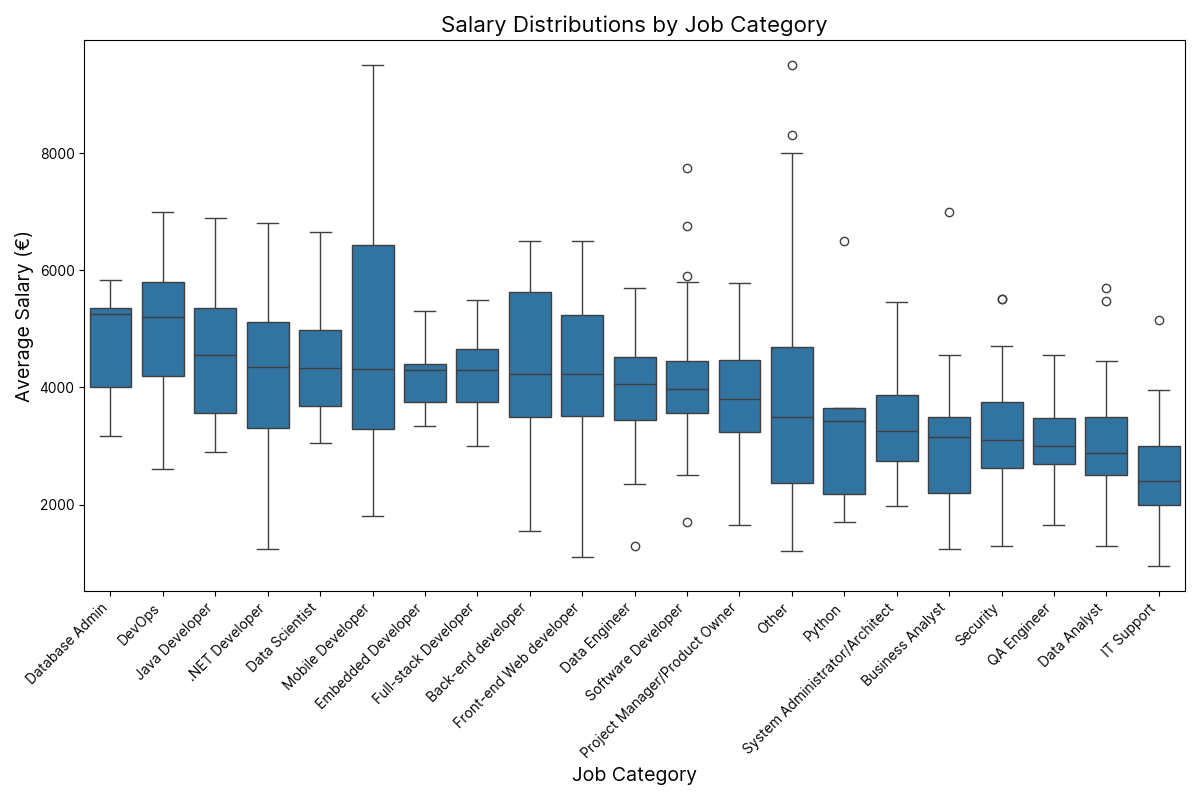
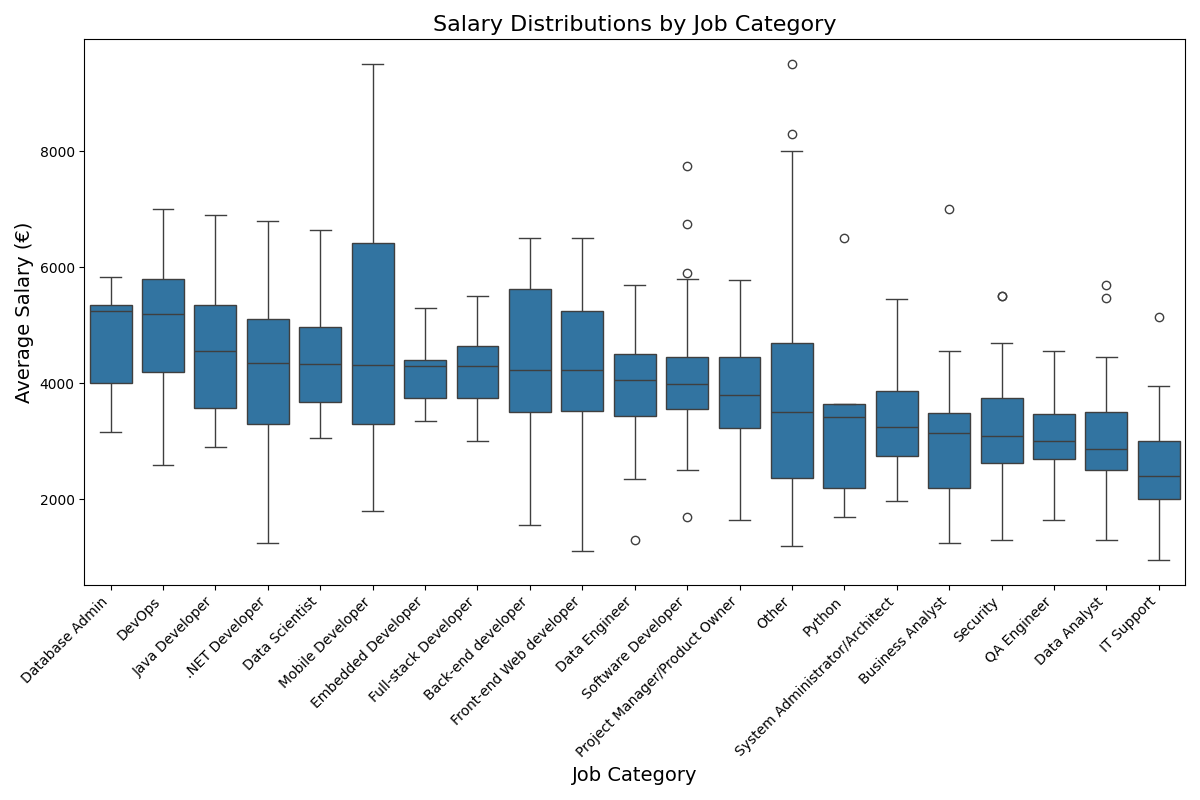
Newletter
v2

diff --git a/newsletter_output/newsletter_20250508.html b/newsletter_output/newsletter_20250508.html
@@ -5,7 +5,7 @@
     <title>Weekly IT Salary Market Insights</title>
     <style>
         body {
-            font-family: Arial, sans-serif;
+            font-family: Inter, sans-serif;
             line-height: 1.6;
             color: #333;
             max-width: 800px;

diff --git a/newsletter_templates/simple_template.html b/newsletter_templates/simple_template.html
@@ -5,7 +5,7 @@
     <title>{{ newsletter_title }}</title>
     <style>
         body {
-            font-family: Arial, sans-serif;
+            font-family: Inter, sans-serif;
             line-height: 1.6;
             color: #333;
             max-width: 800px;

diff --git a/Newsletter copy.py b/Newsletter copy.py
@@ -12,65 +12,8 @@ import jinja2
 import base64
 from io import BytesIO
 
-import matplotlib.pyplot as plt
-import matplotlib.font_manager as fm
-import matplotlib.patheffects as path_effects
-from matplotlib.patches import Rectangle, PathPatch
 from matplotlib.path import Path
-import numpy as np
-import os
-import matplotlib as mpl
-from io import BytesIO
-
-def download_inter_font():
-    """Download and install the Inter font if it's not already available"""
-    import os
-    import urllib.request
-    import zipfile
-    from io import BytesIO
-    
-    # Create fonts directory if it doesn't exist
-    fonts_dir = os.path.join(os.path.dirname(__file__), 'fonts')
-    os.makedirs(fonts_dir, exist_ok=True)
-    
-    # Path to save the Inter font
-    font_path = os.path.join(fonts_dir, 'Inter-Regular.ttf')
-    
-    # Check if font already exists
-    if os.path.isfile(font_path):
-        print("Inter font already exists at:", font_path)
-        return font_path
-    
-    try:
-        # URL for the Inter font
-        url = 'https://github.com/rsms/inter/releases/download/v3.19/Inter-3.19.zip'
-        print("Downloading Inter font from GitHub...")
-        
-        # Download the zip file
-        response = urllib.request.urlopen(url)
-        zip_data = BytesIO(response.read())
-        
-        # Extract the font file from the zip
-        with zipfile.ZipFile(zip_data) as font_zip:
-            # Find the Regular font file in the zip
-            for file_info in font_zip.infolist():
-                if file_info.filename.endswith('Inter-Regular.ttf'):
-                    # Extract the font to our fonts directory
-                    font_zip.extract(file_info, fonts_dir)
-                    # Move it to the right location if necessary
-                    extracted_path = os.path.join(fonts_dir, file_info.filename)
-                    if extracted_path != font_path:
-                        import shutil
-                        os.makedirs(os.path.dirname(font_path), exist_ok=True)
-                        shutil.move(extracted_path, font_path)
-                    break
-        
-        print("Successfully downloaded and installed Inter font to:", font_path)
-        return font_path
-    
-    except Exception as e:
-        print(f"Error downloading Inter font: {e}")
-        return None
+from matplotlib.patches import PathPatch
 
 class SalaryNewsletter:
 
@@ -82,9 +25,6 @@ class SalaryNewsletter:
         self.template_dir = 'newsletter_templates'
         self.output_dir = 'newsletter_output'
         self.image_dir = 'newsletter_images'
-
-                    # Set up font
-        self.setup_font()
         
         # Create necessary directories
         for directory in [self.template_dir, self.output_dir, self.image_dir]:
@@ -95,34 +35,6 @@ class SalaryNewsletter:
         if template_updated:
             print("Template was created or updated to match the current code definition.")
 
-    def setup_font(self):
-        try:
-            # First try to download the font if it's not already available
-            font_path = download_inter_font()
-            
-            if font_path and os.path.isfile(font_path):
-                # If we have the font file, register it with matplotlib
-                fm.fontManager.addfont(font_path)
-                mpl.rcParams['font.family'] = 'Inter'
-                print("Using Inter font from:", font_path)
-                return
-            
-            # Check if Inter is already in the font list
-            font_names = [f.name for f in fm.fontManager.ttflist]
-            if 'Inter' in font_names:
-                mpl.rcParams['font.family'] = 'Inter'
-                print("Using system-installed Inter font")
-                return
-            
-            # If Inter is not found, fall back to a standard sans-serif font
-            print("Inter font not found, using system sans-serif font instead")
-            mpl.rcParams['font.family'] = 'sans-serif'
-            
-        except Exception as e:
-            print(f"Error setting up font: {e}")
-            # If anything goes wrong, use a safe fallback
-            mpl.rcParams['font.family'] = 'sans-serif'
-        
     def _create_default_template(self):
         """Create a default newsletter template if none exists or update if it differs"""
         template_path = os.path.join(self.template_dir, 'simple_template.html')
@@ -135,7 +47,7 @@ class SalaryNewsletter:
     <title>{{ newsletter_title }}</title>
     <style>
         body {
-            font-family: Arial, sans-serif;
+            font-family: Inter, sans-serif;
             line-height: 1.6;
             color: #333;
             max-width: 800px;
@@ -506,11 +418,11 @@ class SalaryNewsletter:
             ax.set_xticks(range(len(roles)))
             
             # Set x-tick labels to job category name + count
-            ax.set_xticklabels([f"{role} ({count})" for role, count in zip(roles, counts)], rotation=0, fontname='Inter')
+            ax.set_xticklabels([f"{role} ({count})" for role, count in zip(roles, counts)], rotation=0)
             
             # Remove the vertical y-axis label and place horizontally at the top
             ax.set_ylabel('')  # Remove the default y-axis label
-            ax.text(-0.5, max(counts) * 1.1, 'Job Postings', fontsize=12, ha='left', fontname='Inter')
+            ax.text(-0.5, max(counts) * 1.1, 'Job Postings', fontsize=12, ha='left')
             
             # Remove spines/borders
             ax.spines['top'].set_visible(False)
@@ -535,7 +447,7 @@ class SalaryNewsletter:
             # Create placeholder chart if job_category column doesn't exist
             plt.figure(figsize=(10, 6))
             plt.text(0.5, 0.5, 'Data not available', 
-                    horizontalalignment='center', verticalalignment='center', fontsize=16, fontname='Inter')
+                    horizontalalignment='center', verticalalignment='center', fontsize=16)
             plt.axis('off')
             plt.tight_layout()
             
